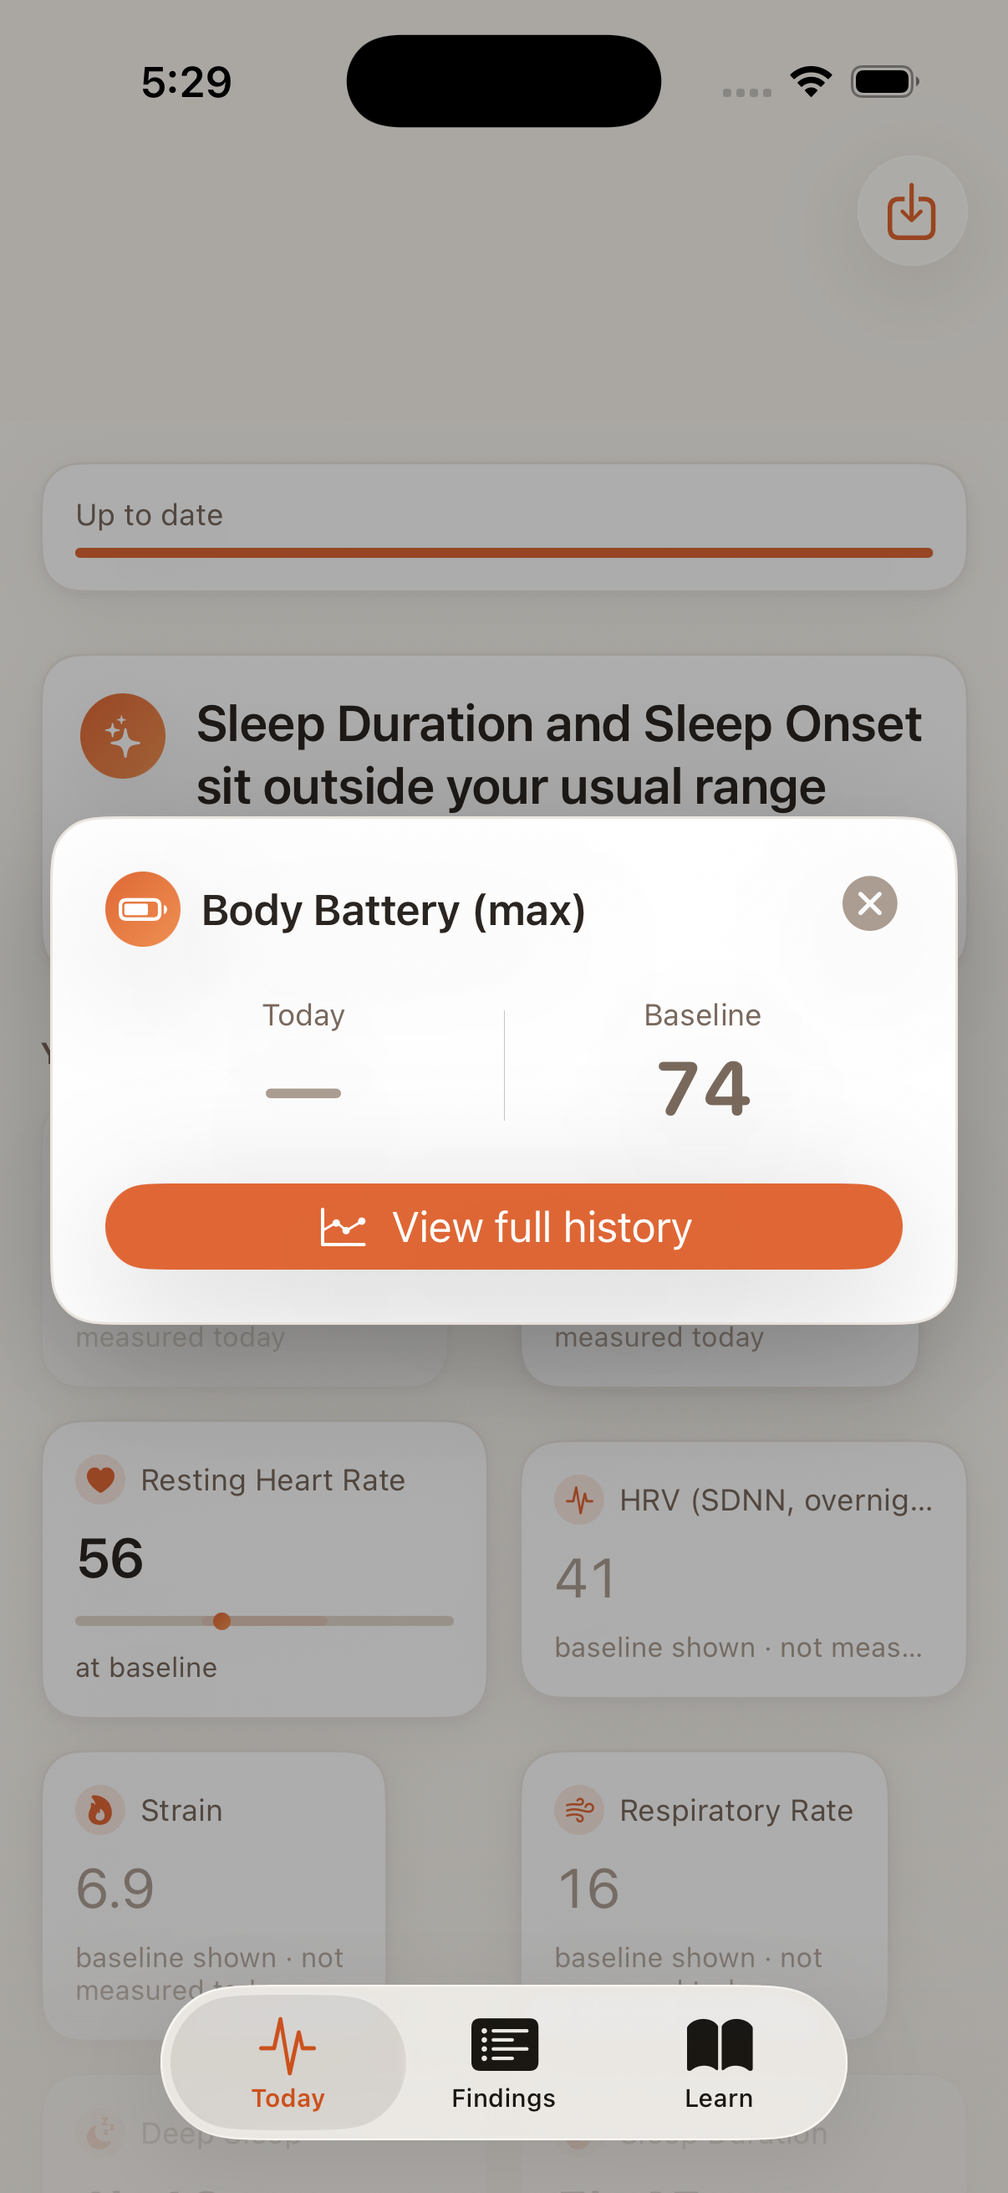
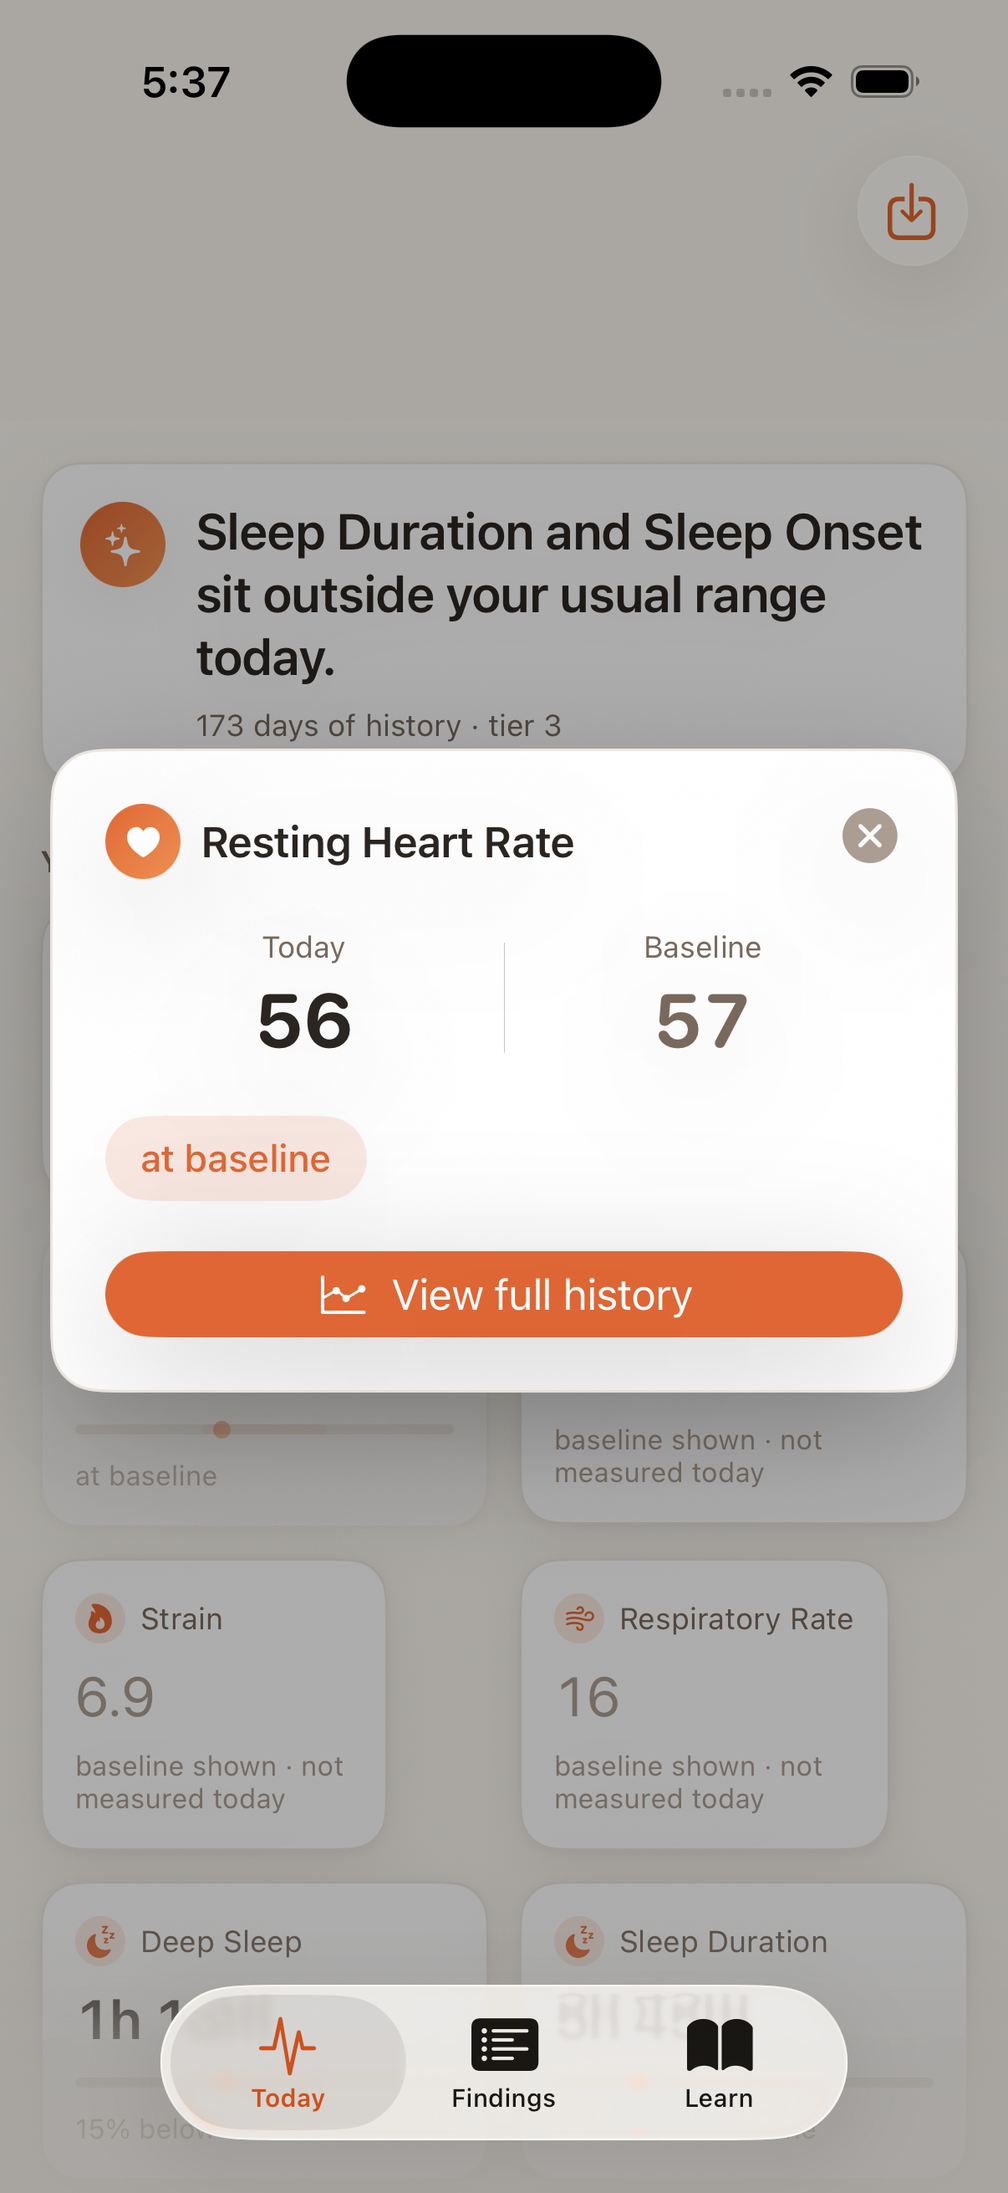
Rework README with screenshots, swap the hero metric card
Hero screenshot now shows a metric with a real today reading (resting
heart rate) instead of Body Battery's dash, per feedback. The "missing
is missing" section gets its own dedicated screenshot so that example
isn't lost — Body Battery genuinely wasn't measured that day.

diff --git a/README.md b/README.md
@@ -1,51 +1,108 @@
-<p align="center">
-  <img src="health-engine-app-icon-1024.png" width="120" alt="Health Engine icon" />
-</p>
+<div align="center">
 
-<h1 align="center">Health Engine</h1>
+<img src="health-engine-app-icon-1024.png" width="120" alt="Health Engine">
 
-<p align="center">
-  <b>Every wearable tells you <i>that</i> your HRV dropped. This tells you <i>why</i> —<br/>
-  or says nothing at all when the evidence isn't there.</b>
-</p>
+# Health Engine
 
-<p align="center">
-  <img alt="Platform" src="https://img.shields.io/badge/platform-iOS-black?logo=apple&logoColor=white">
-  <img alt="Swift" src="https://img.shields.io/badge/Swift-orange?logo=swift&logoColor=white">
-  <img alt="On-device" src="https://img.shields.io/badge/on--device-no%20server%2C%20no%20account-blue">
-  <img alt="Status" src="https://img.shields.io/badge/status-personal%20project-lightgrey">
-</p>
+**Every wearable tells you *that* your HRV dropped.**
+**This one tells you *why* — or says nothing at all.**
+
+![Platform](https://img.shields.io/badge/platform-iOS%2026+-black?logo=apple&logoColor=white)
+![Swift](https://img.shields.io/badge/Swift-6-orange?logo=swift&logoColor=white)
+![On-device](https://img.shields.io/badge/on--device-no%20server%2C%20no%20account%2C%20no%20network-blue)
+![FPR](https://img.shields.io/badge/false%20positive%20rate-0.053%20at%20%CF%81%3D0.7-brightgreen)
+
+<table>
+<tr>
+<td width="33%"><img src="Screenshots/01-today.png" width="100%" alt="Today tab: 15 tracked metrics with baselines and deviations"></td>
+<td width="33%"><img src="Screenshots/02-metric-popup.png" width="100%" alt="Metric detail: today's resting heart rate against baseline, tap-to-expand"></td>
+<td width="33%"><img src="Screenshots/04-learn.png" width="100%" alt="Learn tab: the oxygen cascade explainer with evidence citations"></td>
+</tr>
+<tr>
+<td align="center"><sub><b>Today</b> — baselines and deviations</sub></td>
+<td align="center"><sub><b>Detail</b> — today against baseline, one tap away</sub></td>
+<td align="center"><sub><b>Learn</b> — every claim carries a source</sub></td>
+</tr>
+</table>
+
+<sub>Real screenshots, real device, the author's own 173 days of history at tier 3. Not mockups.</sub>
+
+</div>
 
 ---
 
-Health Engine is an iOS app that turns HealthKit, Garmin, calendar, and location data into **statistically defensible statements about your own physiology** — not another dashboard of numbers you have to interpret yourself, and not another wellness app that turns every correlation into a headline.
+An iOS app that turns HealthKit, Garmin, calendar, and location data into **statistically defensible statements about your own physiology.** Not another dashboard of numbers you have to interpret yourself. Not another wellness app that rounds every correlation up to a headline.
 
-It runs entirely on your phone. No server, no account, no network call, ever.
+It runs entirely on your phone. No server, no account, no network call — there is no networking entitlement in the project file.
 
-## The idea
+## Start here: the number that matters
 
-Most health apps have exactly one epistemic mode: confident. Steps go up, a badge appears. HRV dips, a red banner tells you you're "overtraining." None of them separate *what the data shows* from *what the app is willing to claim* — and rolling that up into a global "Recovery Score" is exactly the intellectually dishonest step most other tools take.
+Daily physiological series are strongly autocorrelated. Correlate two of them with a naive Pearson test and you will find "significant" relationships in pure noise about **a quarter of the time.** Most consumer health apps do exactly this, then put a red banner on it.
 
-Health Engine refuses to. Every statement it makes is tagged with an **evidence tier**, and the tier is the honesty mechanism, not a footnote:
+Measured on two independent AR(1) series at ρ = 0.7, n = 365 — 1,000 trials × 2,000 resamples:
 
-| Tier | What it takes to get there | How it's phrased |
+| Construction | False-positive rate |
+|---|---|
+| Naive Pearson | **0.258** |
+| Paired moving-block bootstrap, block length from the 1/e rule | 0.140 |
+| Null-distribution MBB, block length from the 1/e rule | 0.152 |
+| Null-distribution MBB, `L = τ_int · n^(1/3)` | **0.053** |
+
+Getting from the first row to the last took two non-obvious corrections. The ACF 1/e rule gives L = 3 at ρ = 0.7, far too short to preserve the dependence structure — so block length comes from the Sokal-windowed integrated autocorrelation time instead, clamped to `[2, n/4]`. And inverting a paired percentile CI simply does not calibrate, so the p-value comes from a null distribution built by resampling x-blocks and y-blocks with *independent* starts. That destroys cross-dependence while preserving each series' own autocorrelation. The paired resample still produces the reported CI, which is what a CI is for.
+
+Calibration holds across the space (600 trials each):
+
+| ρ | n = 90 | n = 120 | n = 365 |
+|---|---|---|---|
+| 0.00 | 0.062 | 0.033 | 0.048 |
+| 0.30 | 0.065 | 0.042 | 0.067 |
+| 0.50 | 0.063 | 0.050 | 0.067 |
+| 0.70 | 0.062 | 0.058 | 0.053 |
+| 0.85 | **0.097** | 0.070 | 0.048 |
+
+That 0.097 is real, and it is documented rather than hidden. Near-unit-root autocorrelation on under three months of data sits below the 90-day gate for lagged associations anyway, so nothing reaches T1 there — but it is the first thing to revisit if the minimum-N gates are ever loosened.
+
+Power survives the correction. At n = 365, ρ = 0.7, the joint requirement (p < 0.05 **and** |r| ≥ 0.25) detects ρ = 0.3 at 75%, ρ = 0.4 at 97%, ρ = 0.5 at 100%.
+
+Reproducible from `Health EngineTests/StatsTests.swift`. The gate runs at 500 trials in PR CI, 1,000 nightly.
+
+### The app reports its own attrition
+
+<div align="center">
+<img src="Screenshots/03-findings.png" width="330" alt="Findings tab: 258 tested, 22 survived, and a T2 finding with effect size, day count, q-value and confidence interval">
+</div>
+
+**258 tested. 22 survived.** That number sits at the top of the Findings tab, before any result, because a scan that doesn't tell you its family size is hiding the only thing that makes its p-values interpretable. Related metrics — Body Battery min and max, several sleep measures — are collapsed to their single strongest result rather than counted as independent discoveries.
+
+Every surviving finding carries its own effect size, day count, q-value and bootstrap CI on the card. No finding is a headline with the statistics hidden behind a chevron.
+
+Note the example finding: resting heart rate against VO₂max, r = −0.82. The app's own rationale calls the two **closely coupled by definition** — because a lower resting heart rate is one of the standard inputs to an estimated VO₂max. Surfacing that as a stable association *and saying it's near-tautological* is the intended behaviour. An engine that can't recognise its own definitional relationships can't be trusted on the interesting ones.
+
+## The honesty mechanism
+
+Most health apps have exactly one epistemic mode: confident. Health Engine tags every statement with an evidence tier, and the tier is the product, not a footnote.
+
+| Tier | What it takes | How it's phrased |
 |---|---|---|
-| **T0** | A single day outside your rolling baseline | *"Your HRV was 12% below baseline."* |
-| **T1** | FDR-corrected, effect-size floor, autocorrelation-adjusted | *"These have co-occurred 9 times."* |
-| **T2** | T1 + stable across two non-overlapping time windows | *"These tend to move together."* |
+| **T0** | A day outside your rolling baseline | *"Your HRV was 12% below baseline."* |
+| **T1** | BH-FDR at q = 0.10, \|r\| ≥ 0.25 floor, autocorrelation-corrected | *"These have co-occurred 9 times."* |
+| **T2** | T1 + stable across two non-overlapping windows | *"These tend to move together."* |
 | **T3** | T2 + temporal precedence, no identified confounder | *"This may be contributing."* |
-| **T4** | A within-person randomized trial | *"In your own test, this changed X by Y."* |
+| **T4** | A within-person randomised trial | *"In your own test, this changed X by Y."* |
 
-Most findings live at T1–T2, permanently. Saying so — instead of quietly rounding up to causation — is the entire product.
+Scanning 25 constructs × 20 context features × 4 lags is 2,000 tests. At α = 0.05 that is ~100 findings from noise alone — which is why the family is defined per scan and stored with every single result.
 
-## What it actually does
+**Most findings stay at T1–T2 permanently.** Observational data cannot separate "late meetings hurt my HRV" from "days with late meetings end with a drink," and nothing in here fixes that. The ladder stops the system pretending otherwise. T4 needs an n-of-1 engine, which is roadmap.
 
-- **Derives real physiological constructs** from raw HealthKit/Garmin observations — resting heart rate, HRV (SDNN/rMSSD), VO₂max, sleep architecture, Body Battery, training strain, respiratory rate, wrist temperature deviation — each with a rolling baseline and a deviation shown as a percentage, not an opaque z-score.
-- **Tests every metric against every other metric** (and against calendar/location context, once you grant it) with a real statistical pipeline: moving-block bootstrap for autocorrelated daily series, Benjamini–Hochberg correction across the whole family of hypotheses, a hard `|r| < 0.25` effect floor, and a stability check across split time windows before anything is allowed to look causal.
-- **Explains itself.** Every surfaced finding ships with a plain-language, hedged physiological rationale ("Body Battery is explicitly drained by measured stress, so this is close to definitional") — never invented, always keyed to an actual mechanism or an honest "no single mechanism is established here."
-- **Shows its work.** Every finding gets a small trend chart — both metrics, smoothed, real calendar days — so "these move together" is something you can see, not just a number you have to trust.
-- **Costs you nothing to try.** The heavy statistical scan is a deliberate, disclosed, user-initiated action — not something that silently chews CPU the moment you open the app.
-- **Never overclaims.** HRV gets no population percentile (wrist PPG isn't supine ECG — comparing them would be a category error). Observational findings are permanently labeled as unable to separate direct effects from confounders. An on-device LLM *narrates* findings the statistics layer already produced — it never computes a number or invents a citation, and the app is fully functional with it turned off.
+## Missing is missing
+
+<div align="center">
+<img src="Screenshots/05-missing-data.png" width="330" alt="Body Battery popup: today's value is a dash, not a zero — baseline of 74 shown alongside it">
+</div>
+
+Body Battery wasn't measured today. The card shows a dash and the baseline side by side, labelled *"baseline shown · not measured today"* — not a zero, not yesterday's value quietly carried forward, not an interpolation.
+
+This is invariant 4, enforced end to end: `value: nil` means measured-and-absent, a missing row means never observed, and `ContextService` returns no rows on permission denial rather than zeros. Imputing here would be invisible to the user and would silently corrupt every correlation downstream. It is a small UI detail and it is load-bearing.
 
 ## Architecture
 
@@ -58,36 +115,52 @@ Garmin    ──┘                                           ▼
                                         (bundled corpus)  (phrasing)
 ```
 
-One rule holds the whole thing together: **epistemic status changes exactly once per boundary.** `Derive` produces measurements. `Analyzer` produces facts — never conclusions. `Narrator` phrases facts — never makes them. It's enforced in the types, not left to convention.
+One rule holds it together: **epistemic status changes exactly once per boundary.** `Derive` produces measurements. `Analyzer` produces facts, never conclusions. `Narrator` phrases facts, never makes them. Enforced in the types, not left to convention.
 
 ```
 Health Engine/
-├── Health/            HealthKit, Garmin import, EventKit/CoreLocation, the app's own vocabulary
-├── Store/              SQLite (GRDB) persistence + the recompute/scan orchestrator
-├── Intelligence/       Block bootstrap, BH-FDR, baselines, the association scanner
-├── Evidence/           Retrieval over a hand-curated corpus + grounded on-device narration
-└── UI/                 SwiftUI — Today, Findings, Learn
+├── Health/         HealthKit, Garmin import, EventKit/CoreLocation, app-level models
+├── Store/          GRDB/SQLite, append-only, dedup index, recompute orchestrator
+├── Intelligence/   ACF, block bootstrap, BH-FDR, baselines, TRIMP, the scanner
+├── Evidence/       BM25 + brute-force cosine retrieval, grounded on-device narration
+└── UI/             SwiftUI — Today, Findings, Learn
 ```
+
+### The grounding contract
+
+An on-device LLM narrates. It does not compute, and it cannot invent a citation. Enforced in `GroundingContract.validate`, not in prompt text:
+
+1. `@Generable` typed output — free prose confined to capped fields
+2. Every numeral in the output is checked for membership in the injected fact set → fail → regenerate once → deterministic template
+3. Citations are IDs selected from a provided list; the model cannot name a study
+4. Below the retrieval threshold it refuses rather than generates
+5. A scope classifier runs *before* retrieval — deterministic deny-list for conditions, medications, diagnostic thresholds
+
+The third screenshot shows the payoff. Each claim under *What the evidence says* renders with its chunk ID (`vo2-limitation-central`) visible in the UI — because no claim ships in an explainer without a corresponding evidence chunk, and `ExplainerAudit` fails the test suite if any referenced ID is missing.
+
+Apple's on-device model has a 4,096-token window covering input **and** output, and throws on overflow. The budget: 250 system / 350 facts / 750 retrieved / 200 schema / 2,000 output reserve / 550 headroom. Consequences are structural — stateless single-shot sessions, no conversation history, three chunks maximum, chunks pre-summarised into claim form at build time. Precision over recall, by force.
+
+**The app is fully functional with the LLM disabled.** Every generated surface has a deterministic template fallback, and that path is exercised today.
 
 ## Data, tiered — nothing is ever required
 
 | Tier | Source | Unlocks |
 |---|---|---|
-| 1 | **HealthKit** *(automatic)* | Resting HR, HRV, VO₂max, sleep stages, respiratory rate, wrist temperature — baselines, deviations, trends |
-| 2 | **+ Calendar / Location** *(permission-gated)* | Meeting density, schedule shape, time away from home — context associations |
-| 3 | **+ Garmin import** *(manual, optional, one-time)* | Body Battery, HRV status, training load, stress, longer history |
+| 1 | **HealthKit** *(automatic)* | RHR, HRV, VO₂max, sleep stages, respiratory rate, wrist temperature → baselines, deviations, T0–T1 |
+| 2 | **+ Calendar / Location** *(permission-gated)* | Meeting density, schedule shape, time away from home → context associations, T2–T3 |
+| 3 | **+ Garmin import** *(manual, one-time)* | Body Battery, HRV status, training readiness, stress, longer history |
 
-Every tier says exactly what connecting it would unlock, computed from the app's own real gates — never a guess, never a growth-hack dark pattern.
+Every tier screen shows what connecting it would unlock, **computed from the real gates in `Analyzer`** rather than written by a copywriter. Analysis floors: baseline and deviation at 21 days, change point at 45, two-variable correlation at 60, lagged context association at 90. "Not enough data yet" is a designed screen, never an error state.
+
+### What it won't claim
+
+HRV gets no population percentile. Published references come from short supine ECG; these values come from overnight wrist PPG — different window, posture, modality, and artifact profile. Blocked in code via `Metric.permitsNormativePercentile`, not by discipline. VO₂max and RHR percentiles *are* shown, each stating its reference population and measurement method in the UI. If that can't be stated, it isn't shown.
 
 ## Stack
 
-- **SwiftUI** — no UIKit, no Storyboards
-- **GRDB** — the entire store is one SQLite file, on-device, never synced
-- **Swift Charts** — trend lines, distributions, baseline bands
-- **ZIPFoundation** — parses Garmin's actual GDPR export format, not a simplified stand-in
-- **Foundation Models** — on-device LLM narration, grounded and refusal-capable, zero required
+**SwiftUI** (no UIKit, no Storyboards) · **GRDB** — the entire store is one on-device SQLite file · **Swift Charts** · **Accelerate** for brute-force cosine, which at 200 chunks beats building an ANN index · **ZIPFoundation** against Garmin's actual GDPR export format, not a simplified stand-in · **Foundation Models** for narration, optional throughout.
 
-## Building it
+## Build
 
 ```bash
 git clone https://github.com/kparallel-ai/Health-Engine.git
@@ -95,19 +168,40 @@ cd Health-Engine
 open "Health Engine.xcodeproj"
 ```
 
-Free Apple Developer account is enough — HealthKit doesn't require a paid enrollment, it just needs the capability registered correctly. Build and run on a physical device to get real HealthKit data; the simulator works but has nothing to read.
+A free Apple Developer account is enough — HealthKit does not require paid enrolment, it just needs the capability registered correctly. Build to a physical device for real data; the simulator runs fine but has nothing to read.
 
-## What's deliberately not here
+## Status
+
+Built against `BUILD-APP.md`; task-level detail in `BUILD-STATUS.md`.
+
+Store, HealthKit ingest, context capture, Garmin import, derivations, statistics, analyzer, recompute, dashboard, metric detail, findings, retrieval, narrator, and explainers are **done, building, and passing tests on device.** Three things are honestly not:
+
+| Outstanding | Why it's still open |
+|---|---|
+| Evidence corpus | Explainer claims are backed and audited, but the full 120–200-chunk curation pass isn't finished. It's curation labour, and it does not survive being generated. Retrieval degrades to BM25-only in the meantime and the narrator's refusal path fires correctly. |
+| Strain calibration | `Strain.compressionC` and `compressionFull` are placeholders. Until they're tuned against reference days, the 6.9 on the Today screen is an internally consistent ordinal, not a comparable score. |
+| CoreLocation visit persistence | Visits post on a notification; nothing holds them across launches yet. Third in the cut order — EventKit alone reaches tier 2. |
+
+An app whose entire thesis is refusing to overclaim should not have a README that overclaims.
+
+## Deliberately not built
 
 | Omitted | Why |
 |---|---|
-| Physiological estimation from raw signal | Duplicates decades of lab-validated vendor work — ingest converged estimates instead |
-| An n-of-1 experiment engine (true T4 evidence) | Multi-week latency per question, needs a user-supplied hypothesis — roadmap, not v1 |
-| Daily logging as a dependency | Unrealistic burden; optional one-tap tags only |
-| Cloud sync, accounts, subscriptions | The privacy thesis *is* the product. No server also means no recurring cost. |
+| Physiological estimation from raw signal | Duplicates decades of lab-validated vendor work. Ingest converged estimates as observations. |
+| n-of-1 experiment engine (true T4) | Multi-week latency per question, needs a user-supplied hypothesis. Roadmap. |
+| Daily logging as a dependency | Unrealistic burden. Optional one-tap tags only. |
+| A global "Recovery Score" | Rolling everything into one number is the specific intellectually dishonest step this project exists to avoid. |
+| ANN vector index | 200 chunks. Brute force is faster than the index build. |
+| Cloud sync, accounts, subscription | The privacy thesis *is* the product. No server also means no recurring cost. |
+| 3D anatomy | Licensed assets are expensive, and a heart beating at your RHR conveys nothing the number didn't. |
 
-See `SPEC.md` for the full specification this app was built against.
+Full specification: `SPEC.md`.
 
 ---
 
-<p align="center"><i>Built to say "I don't know" more often than any wellness app you've used — on purpose.</i></p>
+<div align="center">
+
+*Built to say "I don't know" more often than any wellness app you've used. On purpose.*
+
+</div>
